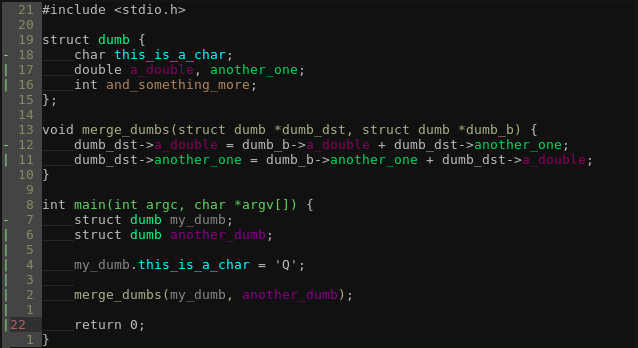
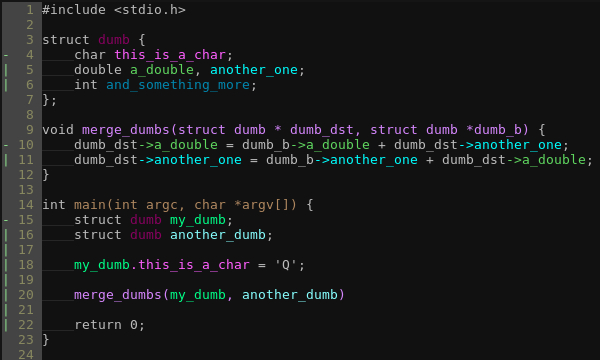
Moar screenshots with new option

diff --git a/README.md b/README.md
@@ -16,3 +16,6 @@ This plugin will only work if the tags file is in your working directory.
 
 Screenshot of a simple program with :syntax off
 ![Screenshot\_1](screenshot_1.jpg)
+
+... Whit the option `let g:colorcode_global=0`
+![Screenshot\_2](screenshot_2.jpg)
